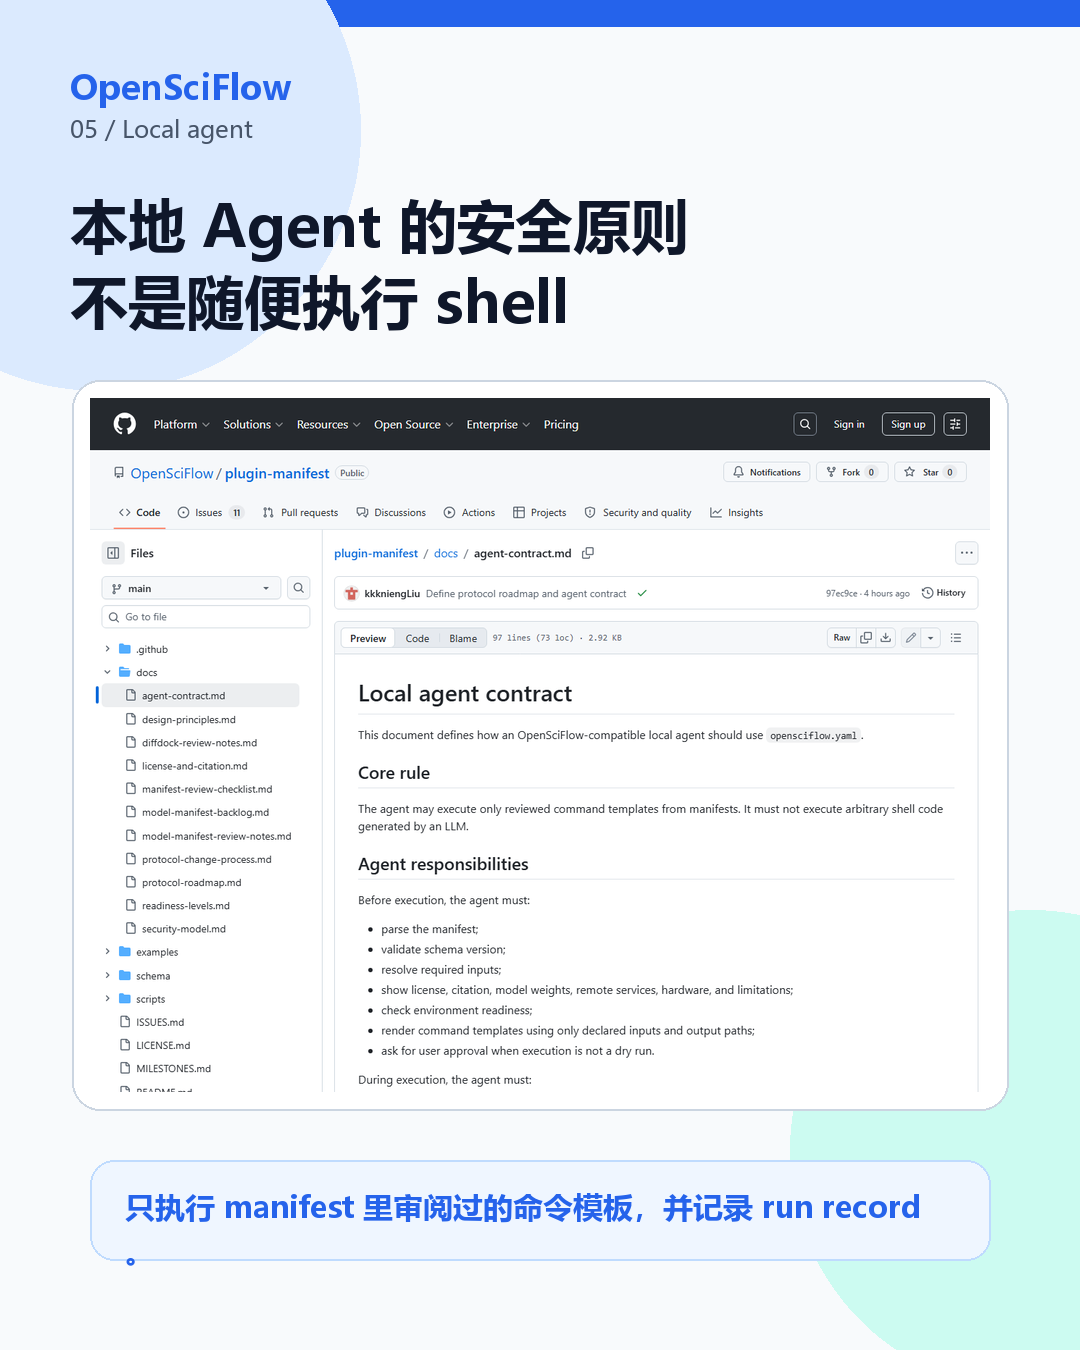
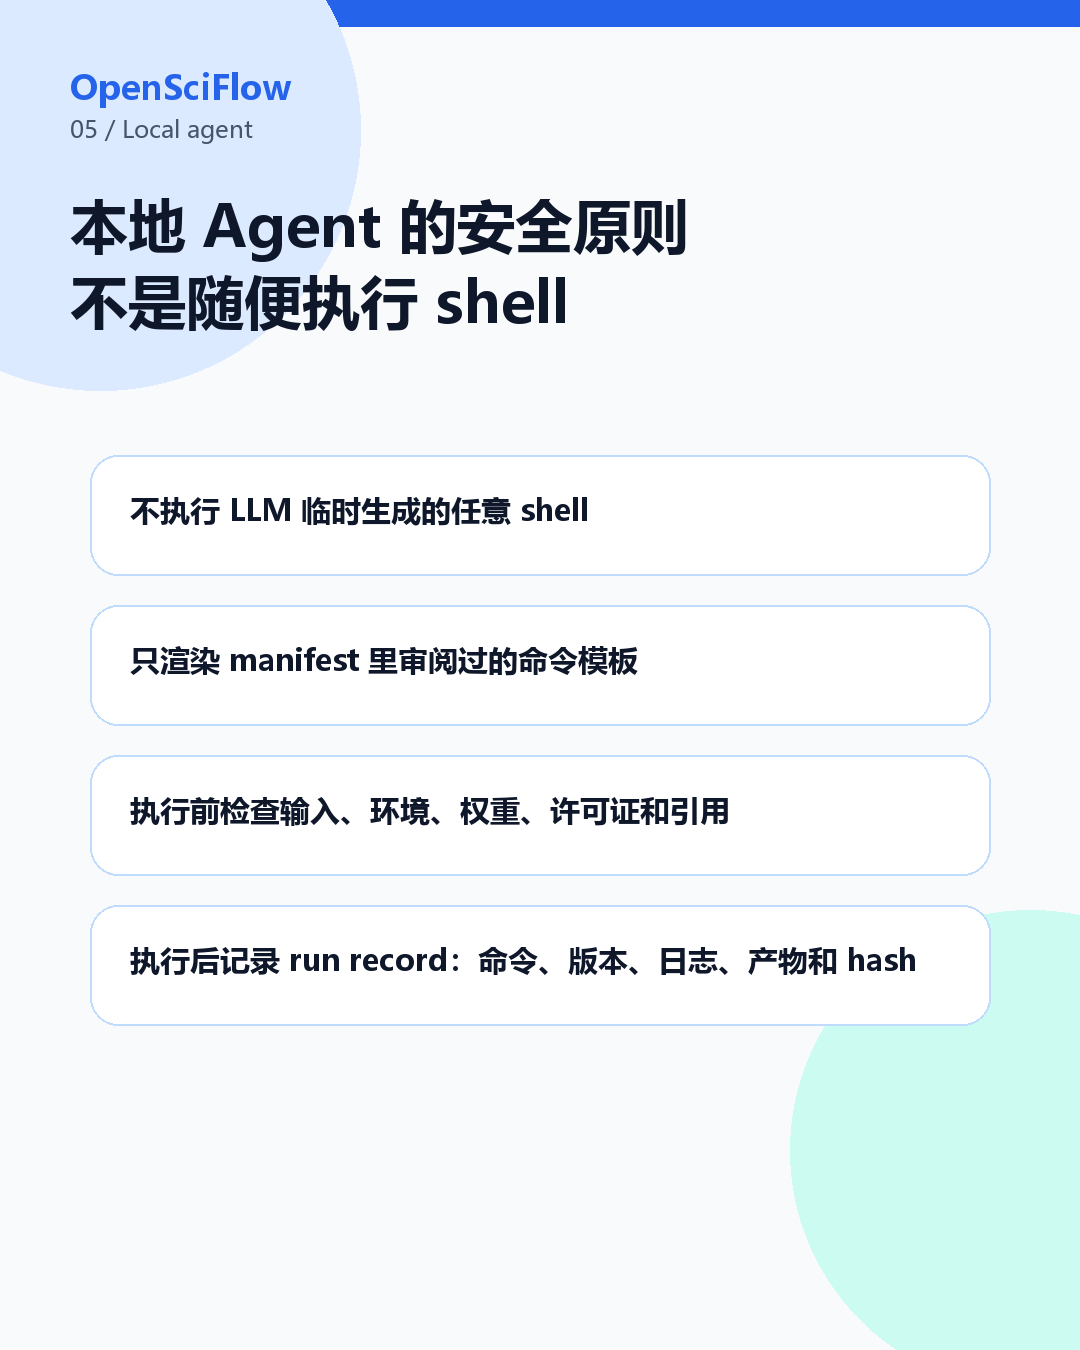
Remove old outreach screenshots

Changed region(s): [[0.0611, 0.28, 0.9472, 0.9333], [0.1222, 0.8711, 0.5806, 0.9022], [0.7639, 0.4044, 0.9167, 0.4978]]

diff --git a/outreach/xiaohongshu-assets/make_xhs_cards.py b/outreach/xiaohongshu-assets/make_xhs_cards.py
@@ -116,8 +116,12 @@ def paste_screenshot(
     screenshot_name: str,
     box: tuple[int, int, int, int],
     source_crop: tuple[int, int, int, int] | None = None,
-):
-    src = Image.open(SCREENSHOTS / screenshot_name).convert("RGB")
+) -> bool:
+    screenshot_path = SCREENSHOTS / screenshot_name
+    if not screenshot_path.exists():
+        return False
+
+    src = Image.open(screenshot_path).convert("RGB")
     if source_crop is not None:
         src = src.crop(source_crop)
     x1, y1, x2, y2 = box
@@ -130,6 +134,7 @@ def paste_screenshot(
 
     round_rect(draw, box, 28, "#ffffff", "#cbd5e1", 2)
     img.paste(cropped, (x1 + 18, y1 + 18))
+    return True
 
 
 def card_01():
@@ -185,7 +190,7 @@ def card_03():
 
 def card_04():
     img, draw = base("已经公开在 GitHub\n不是停留在 PPT", "04 / GitHub", CYAN)
-    paste_screenshot(img, draw, "github-org.png", (72, 380, 1008, 1120), (0, 0, 900, 1420))
+    paste_screenshot(img, draw, "homepage-fresh-clean-main.png", (72, 380, 1008, 1120))
     draw_wrapped(
         draw,
         "公开仓库、manifest 草案、workflow 模板、community 文档已经上线。",
@@ -199,16 +204,29 @@ def card_04():
 
 def card_05():
     img, draw = base("本地 Agent 的安全原则\n不是随便执行 shell", "05 / Local agent", BLUE)
-    paste_screenshot(img, draw, "agent-contract.png", (72, 380, 1008, 1110))
-    round_rect(draw, (90, 1160, 990, 1260), 24, "#eff6ff", "#bfdbfe")
-    draw_wrapped(
-        draw,
-        "只执行 manifest 里审阅过的命令模板，并记录 run record。",
-        (125, 1186),
-        font(30, True),
-        BLUE,
-        800,
-    )
+    pasted = paste_screenshot(img, draw, "agent-contract.png", (72, 380, 1008, 1110))
+    if pasted:
+        round_rect(draw, (90, 1160, 990, 1260), 24, "#eff6ff", "#bfdbfe")
+        draw_wrapped(
+            draw,
+            "只执行 manifest 里审阅过的命令模板，并记录 run record。",
+            (125, 1186),
+            font(30, True),
+            BLUE,
+            800,
+        )
+    else:
+        y = 455
+        points = [
+            "不执行 LLM 临时生成的任意 shell",
+            "只渲染 manifest 里审阅过的命令模板",
+            "执行前检查输入、环境、权重、许可证和引用",
+            "执行后记录 run record：命令、版本、日志、产物和 hash",
+        ]
+        for point in points:
+            round_rect(draw, (90, y, 990, y + 120), 28, CARD, "#bfdbfe")
+            draw_wrapped(draw, point, (130, y + 34), font(30, True), INK, 800)
+            y += 150
     save(img, "05-local-agent-contract.png")
 
 

diff --git a/outreach/xiaohongshu-assets/README.md b/outreach/xiaohongshu-assets/README.md
@@ -17,14 +17,7 @@ Generated outreach assets for the first OpenSciFlow Xiaohongshu post.
 
 ## Screenshots
 
-`screenshots/` contains GitHub page screenshots for proof/context:
-
-- organization page;
-- scientific models page;
-- local agent contract;
-- promotion kit.
-
-Fresh homepage screenshots:
+`screenshots/` contains fresh GitHub homepage screenshots for proof/context:
 
 - `homepage-fresh-vertical.png`: full vertical homepage screenshot, `1242x1660`.
 - `homepage-fresh-desktop.png`: desktop homepage screenshot, `1600x1200`.